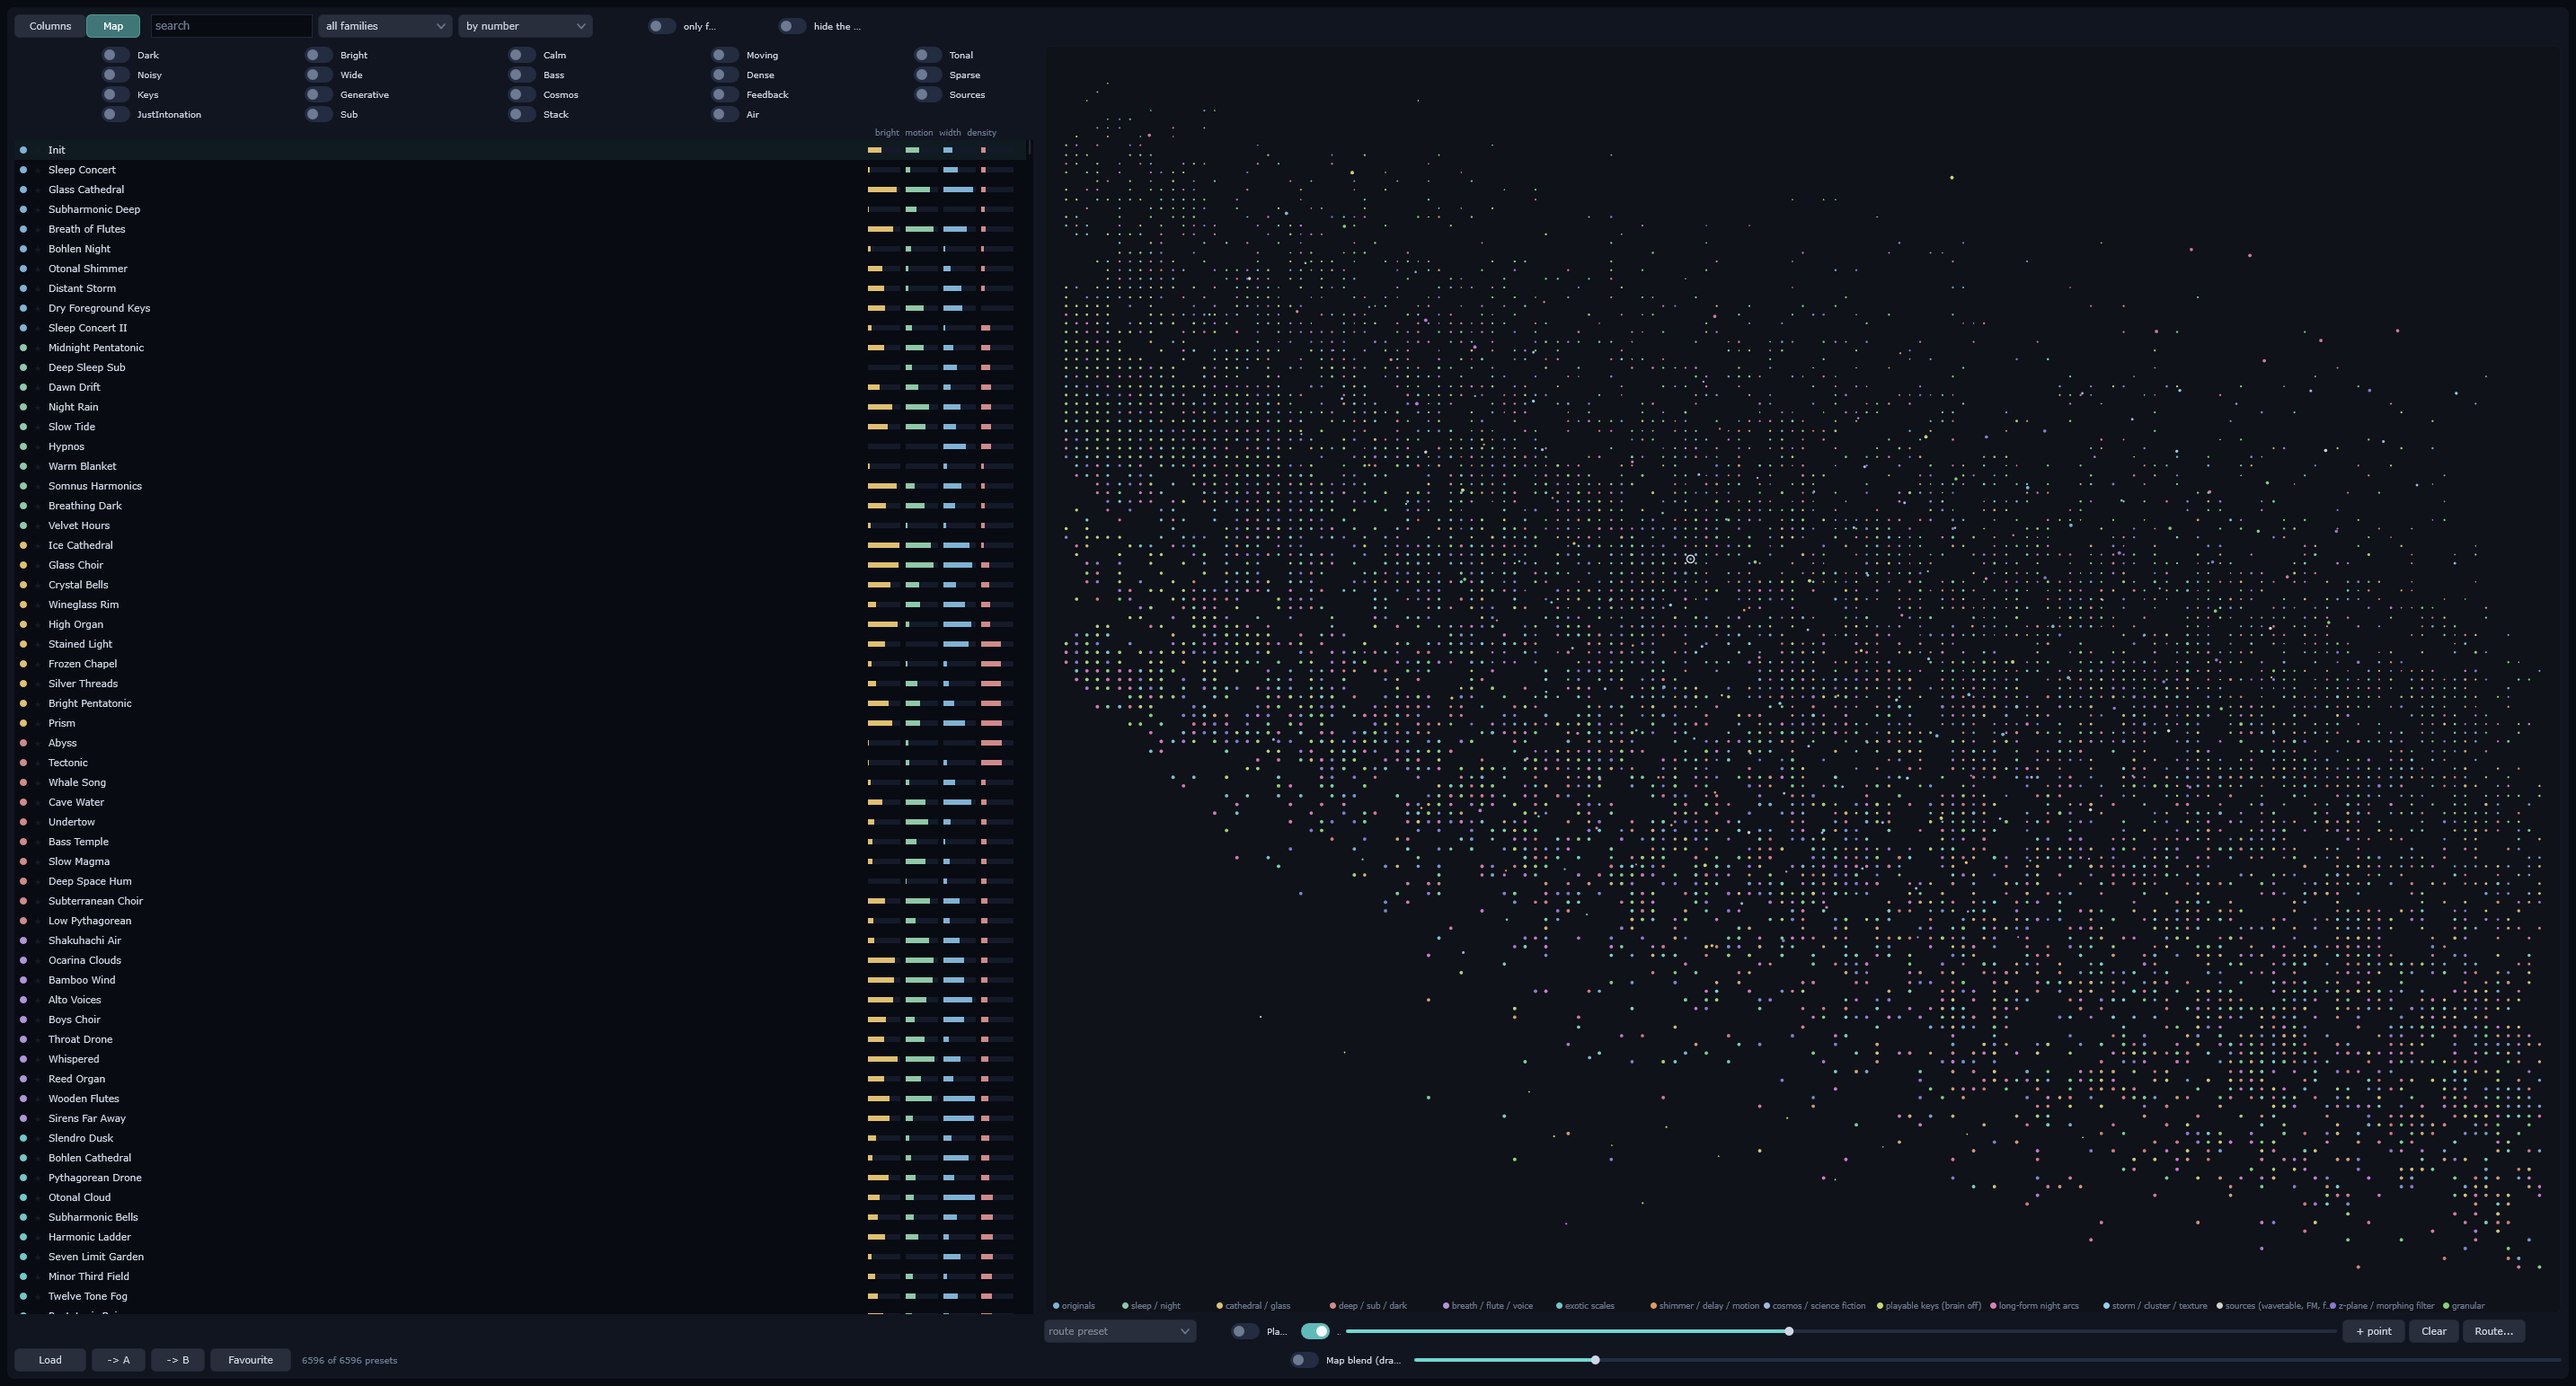
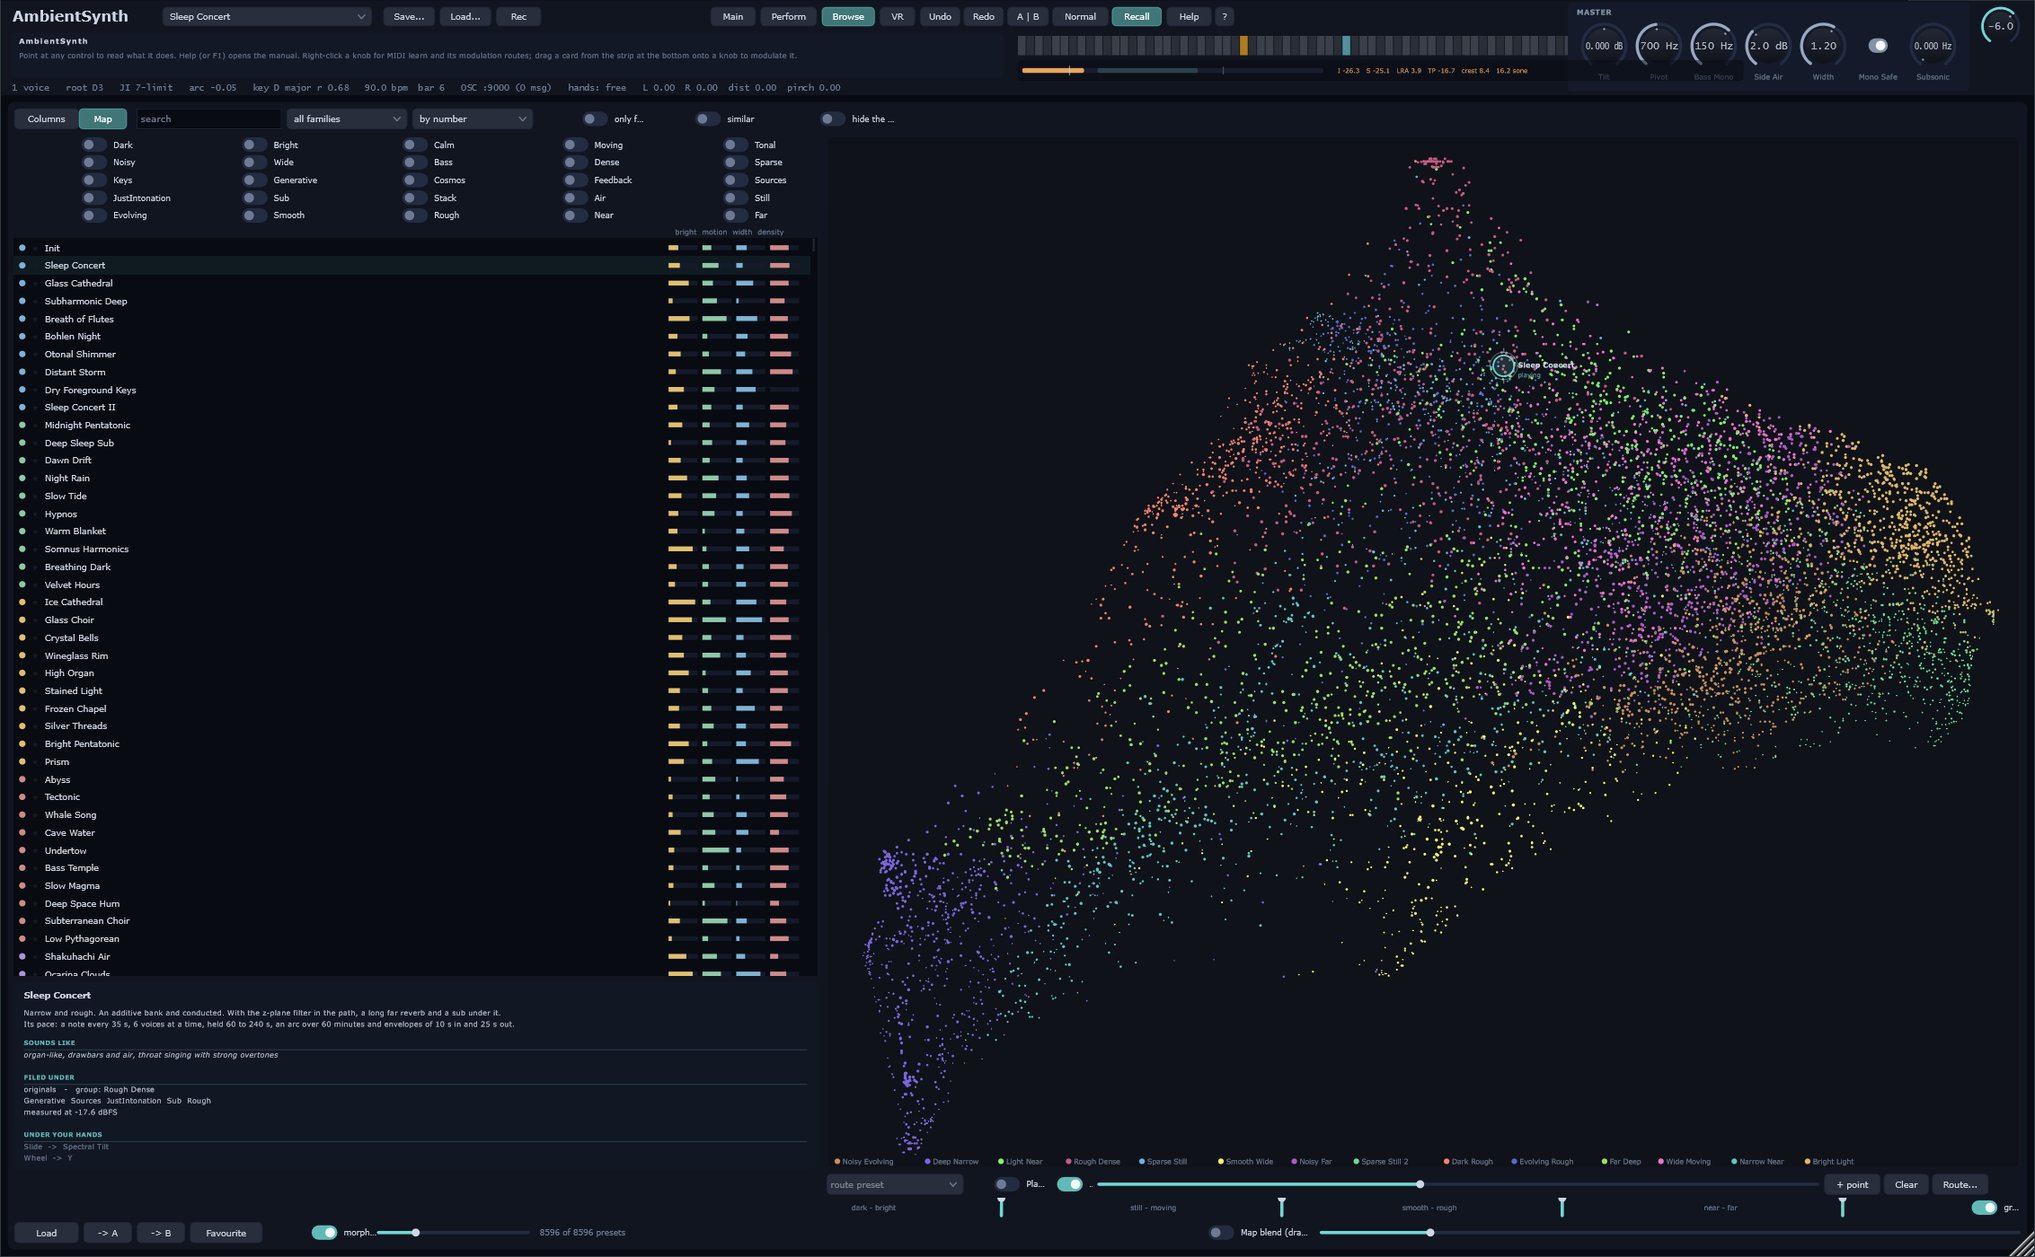
Startseiten-Bilder mit der neuen Bibliothek; Ziehgriff sass in der Mitte
Beide README-Bilder zeigten den Stand vom 6./7.09.: die Karte 6396
Presets, alte Gruppen, ohne die Achsen-Filter von 1.11 (Still, Evolving,
Smooth, Rough, Near, Far). Jetzt 8596 Presets, die 14 gemessenen Gruppen
und die Beschreibung eines Presets, dazu der About-Knopf im Kopf.

Beim Aufnehmen fiel der Fehler auf, der auch im alten Bild zu sehen ist:
resized() legte die Skalierung ueber ALLE Kinder, auch ueber JUCEs
Ziehgriff, den JUCE selbst in Fensterkoordinaten an die untere rechte
Ecke setzt (AudioProcessorEditor::editorResized). Skaliert landete er
bei (Breite - 18) * Skalierung -- ein Griff mitten im Panel, bei halber
Fenstergroesse auf halbem Weg. Er bleibt jetzt untransformiert.

diff --git a/Plugin/PluginEditor.cpp b/Plugin/PluginEditor.cpp
@@ -849,7 +849,14 @@ void AmbientSynthEditor::resized()
     designH_ = std::max(kMinDesignH, kHeaderH + bodyH_ + kStripH);
     scale_ = juce::jmax(0.05f, static_cast<float>(getWidth()) / static_cast<float>(designW_));
     const auto tf = juce::AffineTransform::scale(scale_);
-    for (auto* child : getChildren()) child->setTransform(tf);
+    // Every child is laid out in design coordinates and scaled to the window -- except the corner
+    // resizer, which is JUCE's own and which JUCE places at the window's bottom right in window
+    // coordinates (AudioProcessorEditor::editorResized). Scaling that one too moved it to
+    // (width - 18) * scale: a stray drag handle floating in the middle of the panel, at half the
+    // way across whenever the window showed the layout at half size. It stays untransformed.
+    for (auto* child : getChildren())
+        if (dynamic_cast<juce::ResizableCornerComponent*>(child) == nullptr)
+            child->setTransform(tf);
 
     header_ = juce::Rectangle<int>(0, 0, designW_, kHeaderH);
     // The Sound box gets the room the Cosmos box used to take: it holds the longest names, and
